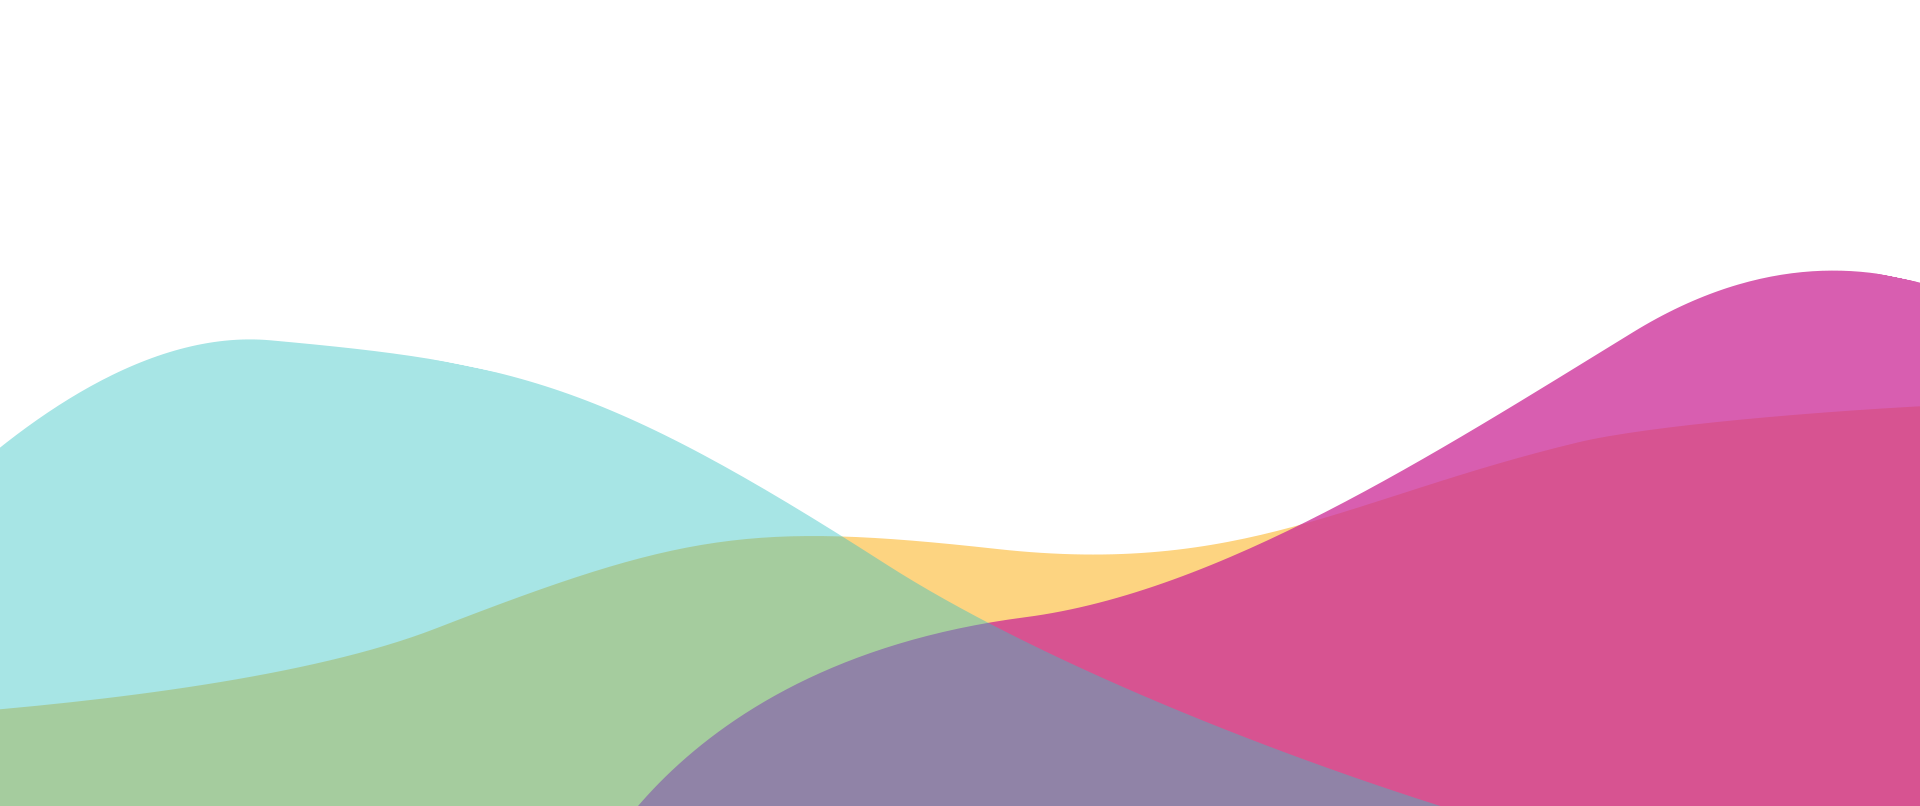
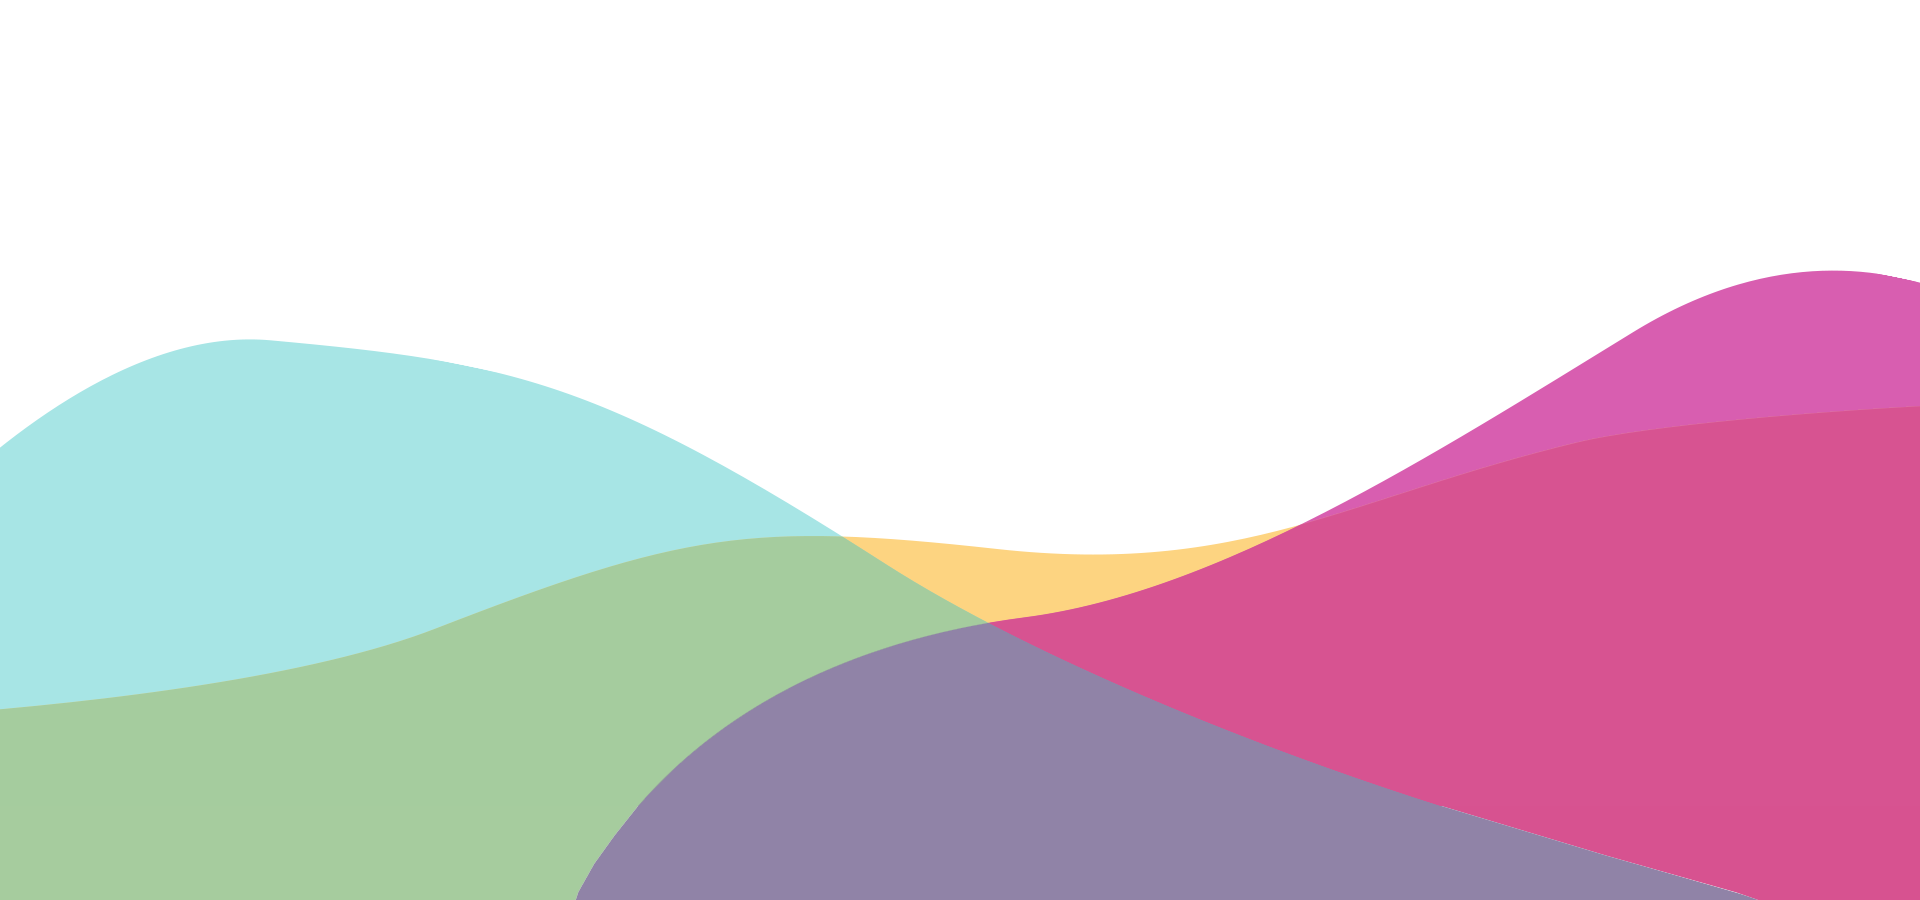
[YSR-51] Update waves

Changed region(s): [[0.0, 0.2792, 1.0, 1.0]]

diff --git a/docroot/themes/custom/ymca/css/ysr.css b/docroot/themes/custom/ymca/css/ysr.css
@@ -425,8 +425,8 @@
   }
 }
 #hero-section .shape-container {
-  height: 939px;
-  height: 93.9rem;
+  height: 1031px;
+  height: 103.1rem;
   padding-top: 131px;
   padding-top: 13.1rem;
   max-height: 100%;
@@ -442,8 +442,8 @@
   width: 100%;
 }
 #hero-section .shape-container .shape {
-  background-size: 1920px 806px;
-  background-size: 192rem 80.6rem;
+  background-size: 1920px 900px;
+  background-size: 192rem 90rem;
   -moz-transform: translateX(-50%);
   -ms-transform: translateX(-50%);
   -webkit-transform: translateX(-50%);
@@ -1526,17 +1526,20 @@ body .ysr-offset:before {
   display: block;
   visibility: hidden;
 }
+body.toolbar-fixed.toolbar-vertical {
+  margin-top: 0;
+}
 body.toolbar-fixed.toolbar-vertical #top-nav {
   margin-top: 39px;
-}
-body.toolbar-fixed.toolbar-vertical #hero-section {
-  margin-top: 20px;
 }
 body.toolbar-fixed.toolbar-vertical .ysr-offset:before {
   height: 111px;
   height: 11.1rem;
   margin-top: -111px;
   margin-top: -11.1rem;
+}
+body.toolbar-fixed.toolbar-horizontal {
+  margin-top: 0;
 }
 body.toolbar-fixed.toolbar-horizontal #top-nav {
   margin-top: 39px;
@@ -1546,6 +1549,9 @@ body.toolbar-fixed.toolbar-horizontal .ysr-offset:before {
   height: 11.1rem;
   margin-top: -111px;
   margin-top: -11.1rem;
+}
+body.toolbar-fixed.toolbar-horizontal.toolbar-tray-open {
+  margin-top: 0;
 }
 body.toolbar-fixed.toolbar-horizontal.toolbar-tray-open #top-nav {
   margin-top: 79px;

diff --git a/docroot/themes/custom/ymca/sass/ysr/_misc.scss b/docroot/themes/custom/ymca/sass/ysr/_misc.scss
@@ -259,7 +259,7 @@
   }
 
   .shape-container {
-    @include rem(height, 939px);
+    @include rem(height, 1031px);
     @include rem(padding-top, 131px);
     max-height: 100%;
     overflow: hidden;
@@ -275,7 +275,7 @@
     }
 
     .shape {
-      @include rem(background-size, 1920px 806px);
+      @include rem(background-size, 1920px 900px);
       @include transform(translateX(-50%));
       @include transition(opacity 0.5s);
       background-position: top center;
@@ -1308,11 +1308,10 @@ body {
   }
 
   &.toolbar-fixed.toolbar-vertical {
+    margin-top: 0;
+
     #top-nav {
       margin-top: 39px;
-    }
-    #hero-section {
-      margin-top: 20px;
     }
     .ysr-offset:before {
       @include rem(height, 72px+39px);
@@ -1320,6 +1319,8 @@ body {
     }
   }
   &.toolbar-fixed.toolbar-horizontal {
+    margin-top: 0;
+
     #top-nav {
       margin-top: 39px;
     }
@@ -1329,6 +1330,8 @@ body {
     }
   }
   &.toolbar-fixed.toolbar-horizontal.toolbar-tray-open {
+    margin-top: 0;
+
     #top-nav {
       margin-top: 79px;
     }
